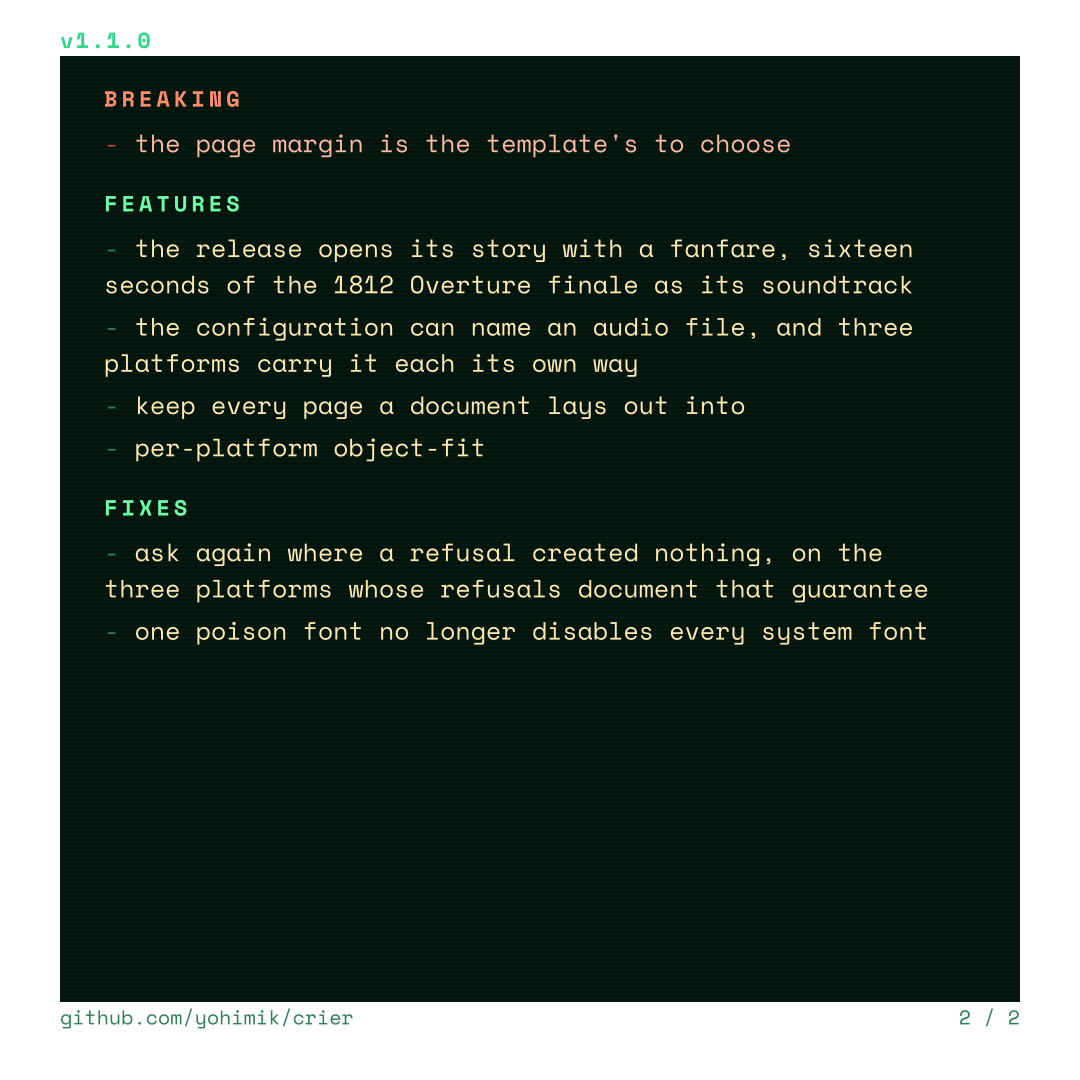
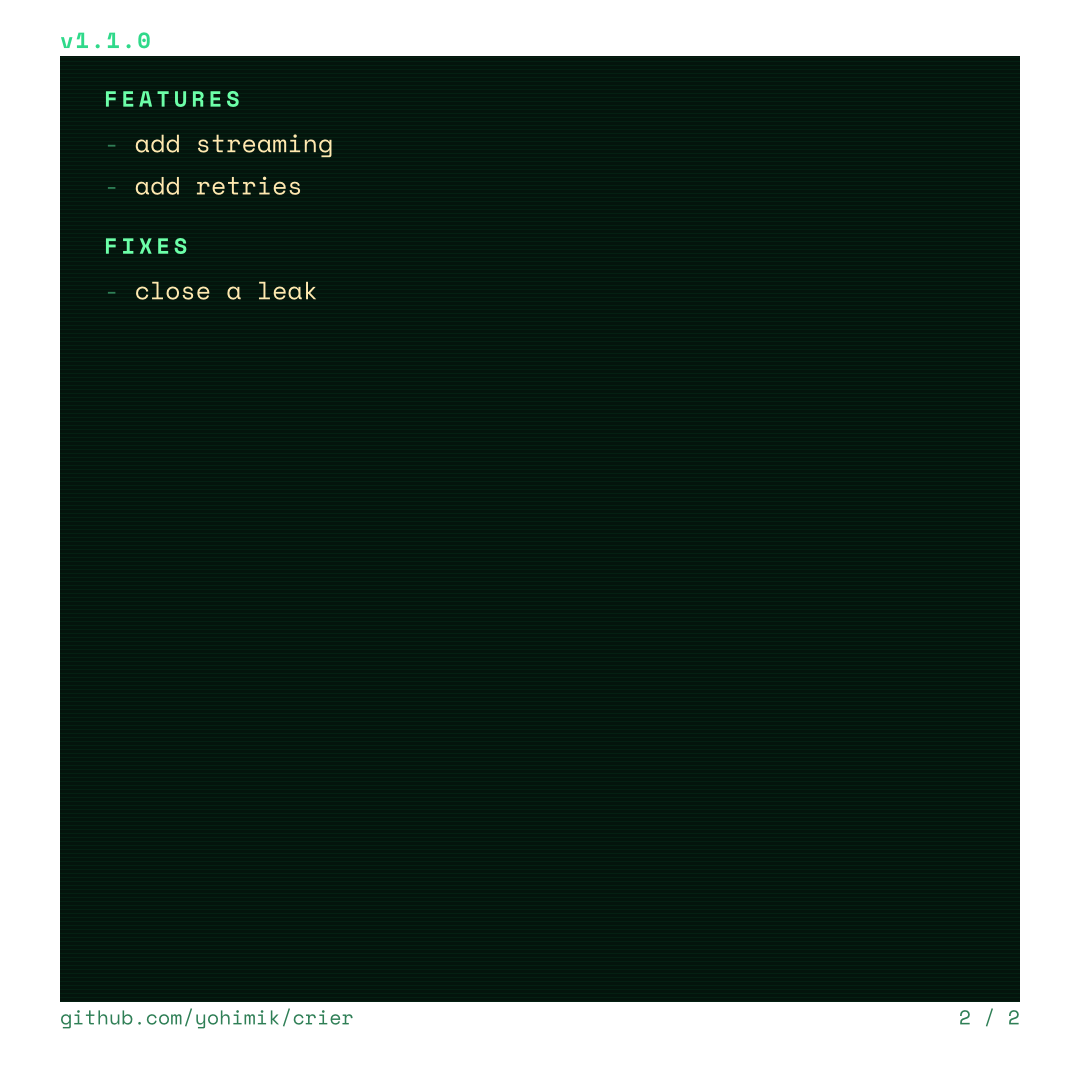
fix(crier): the card stops undercounting its platforms
The cover's lede still said ten while the caption under it said
fourteen: the card was written before four platforms landed and no
sweep ever reached announce/. Both layouts now agree with the caption,
and the committed previews are redrawn at their pinned seed.

diff --git a/announce/template-b.html b/announce/template-b.html
@@ -205,7 +205,7 @@
     <div class="badge">v{{ .version }}</div>
 
     <div class="lede">
-      Render an HTML template to an image or a video and publish it to ten
+      Render an HTML template to an image or a video and publish it to fourteen
       social platforms with one command.
     </div>
 

diff --git a/announce/template.html b/announce/template.html
@@ -199,7 +199,7 @@
     <div class="badge">v{{ .version }}</div>
 
     <div class="lede">
-      Render an HTML template to an image or a video and publish it to ten
+      Render an HTML template to an image or a video and publish it to fourteen
       social platforms with one command.
     </div>
 
